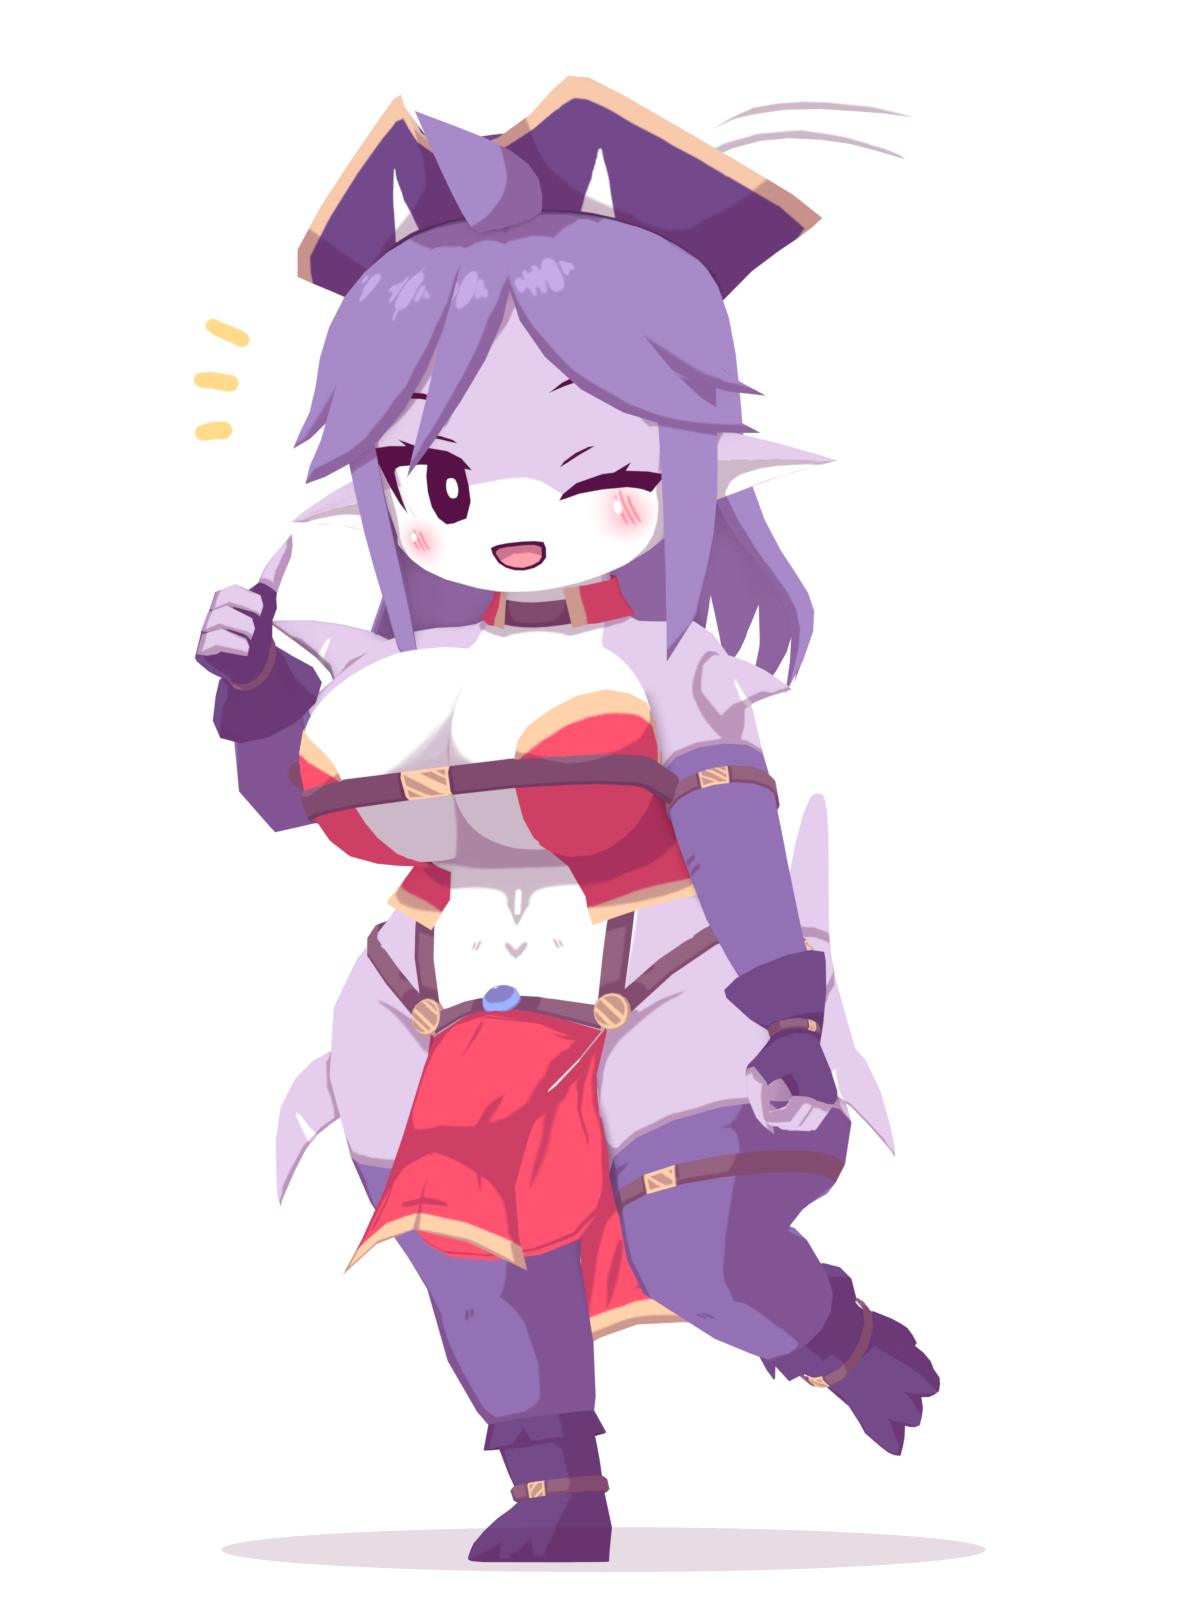
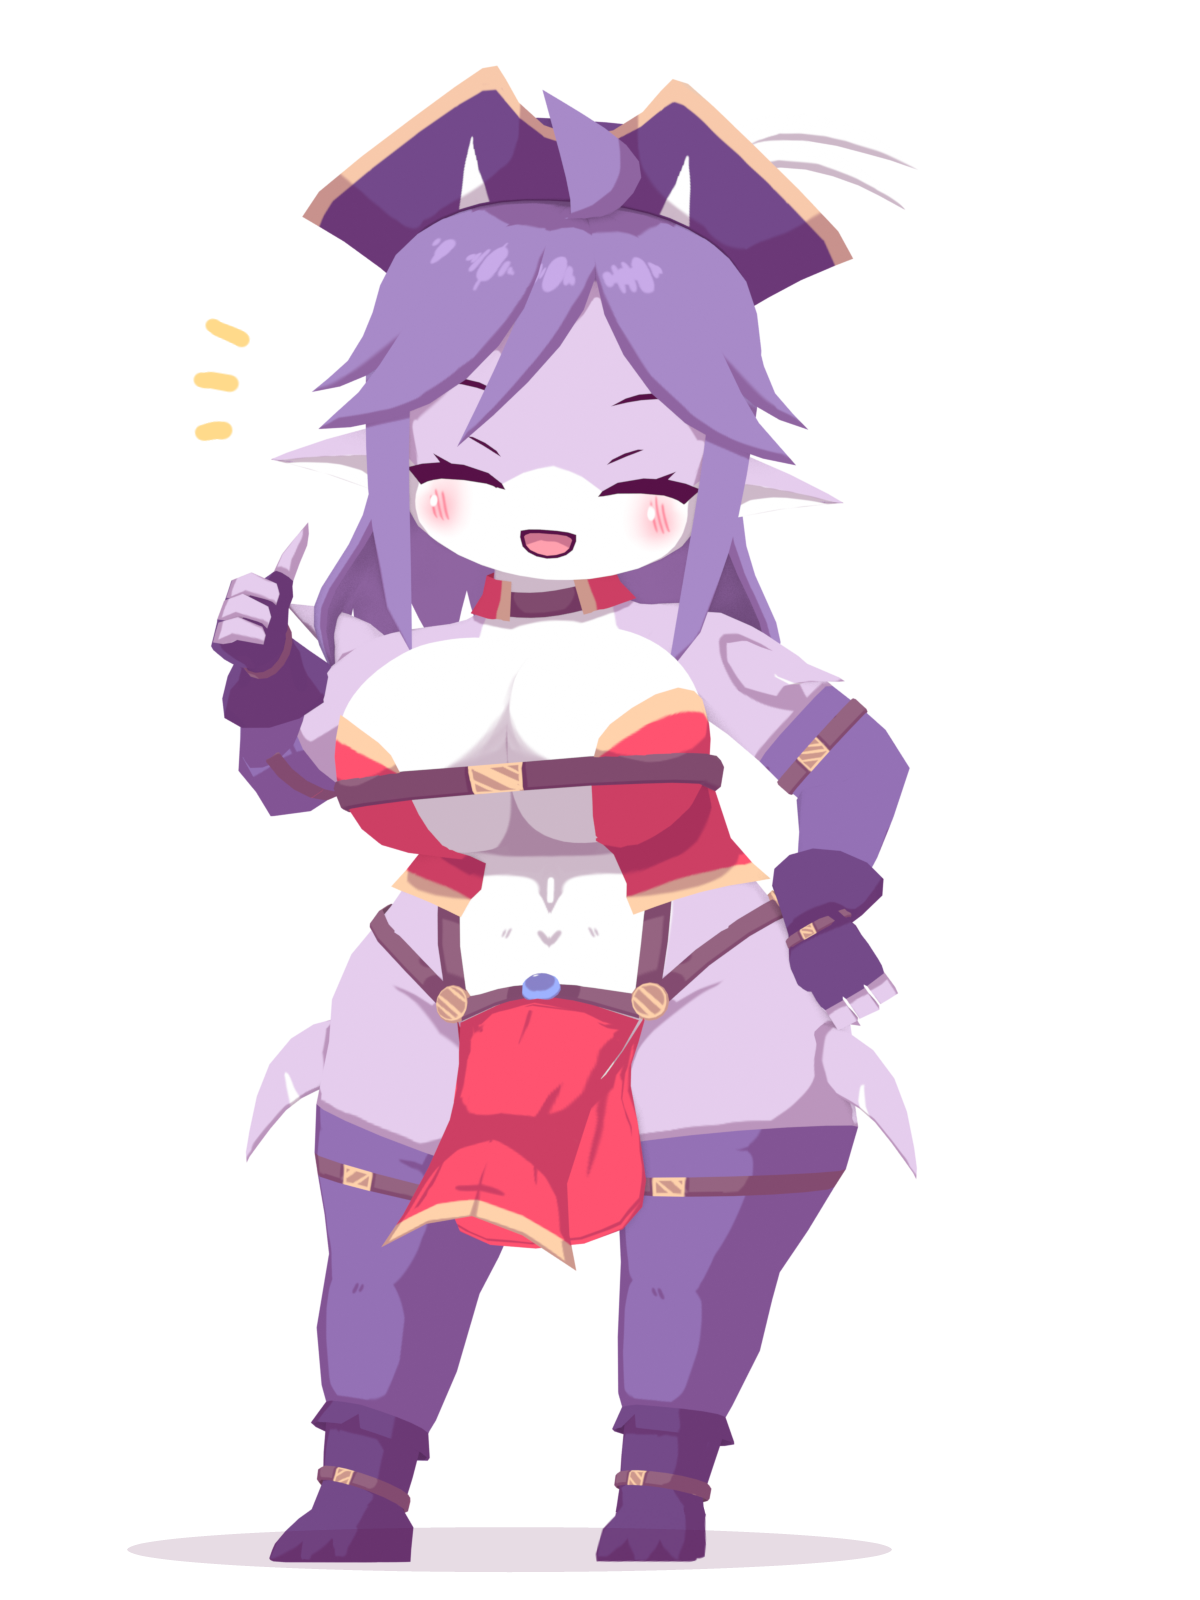
add some emotion

Changed region(s): [[0.1233, 0.0312, 0.8017, 1.0], [0.6783, 0.9375, 0.8017, 1.0]]

diff --git a/frontend/src/main.js b/frontend/src/main.js
@@ -21,6 +21,8 @@ const expressionImages = {
   angry: `${import.meta.env.BASE_URL}shark_captain_angry.png`,
   surprised: `${import.meta.env.BASE_URL}shark_captain_surprised.png`,
   thinking: `${import.meta.env.BASE_URL}shark_captain_thinking.png`,
+  embarrassed: `${import.meta.env.BASE_URL}shark_captain_embarrassed.png`,
+  scheming: `${import.meta.env.BASE_URL}shark_captain_scheming.png`,
 };
 
 chatForm.addEventListener("submit", async (event) => {

diff --git a/backend/src/types.ts b/backend/src/types.ts
@@ -18,6 +18,8 @@ export const VALID_EMOTIONS = [
     "sad",
     "surprised",
     "thinking",
+    "embarrassed",
+    "scheming"
 ] as const;
 
 export type Emotion = (typeof VALID_EMOTIONS)[number];
